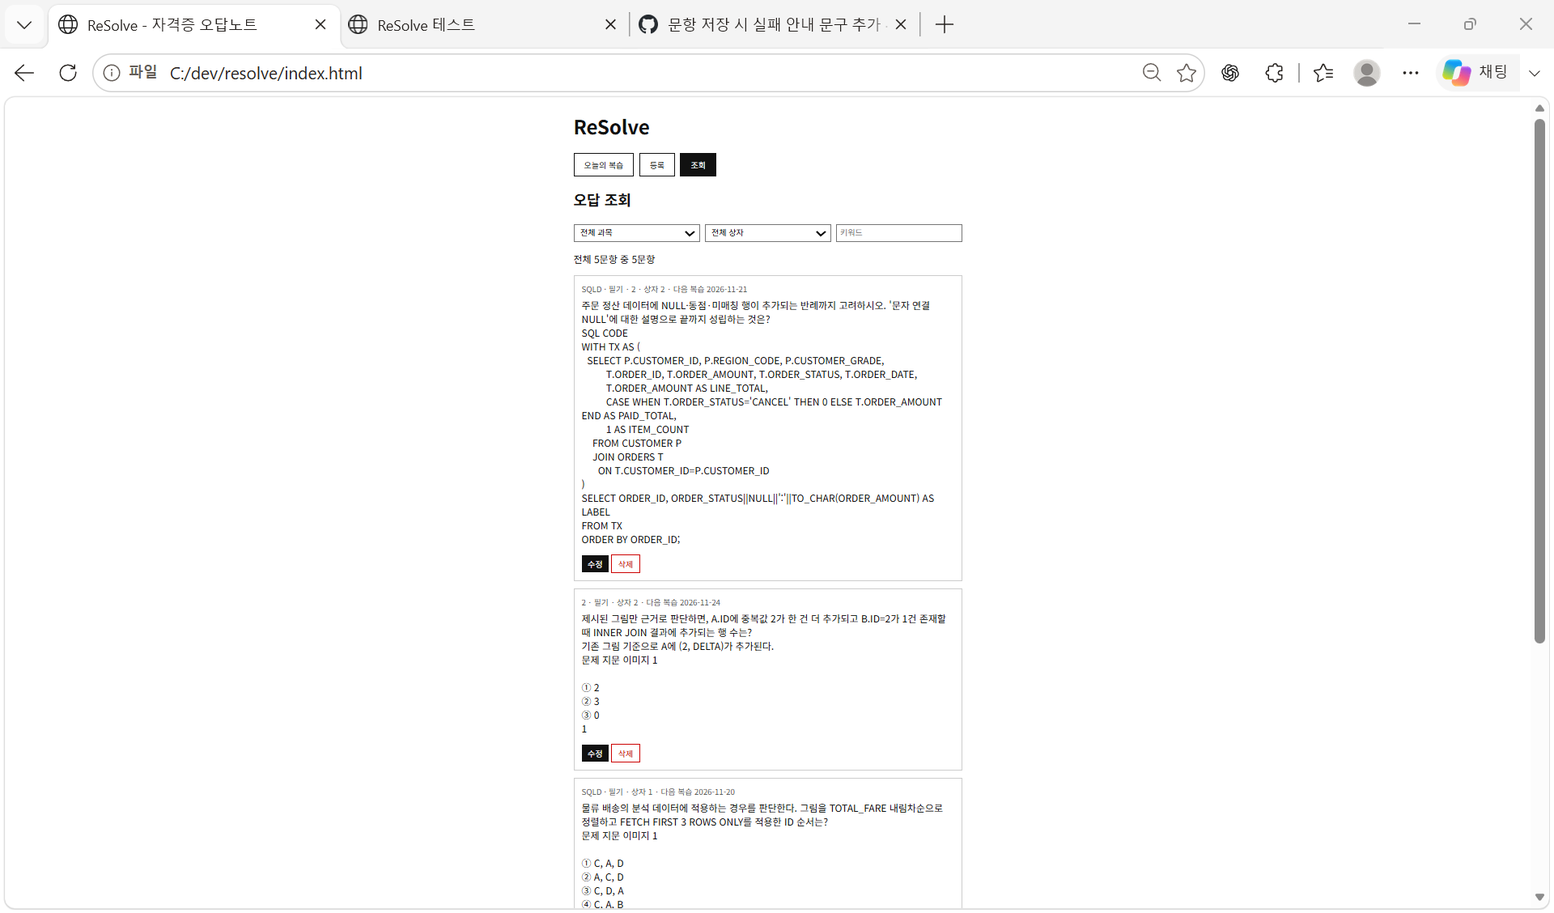
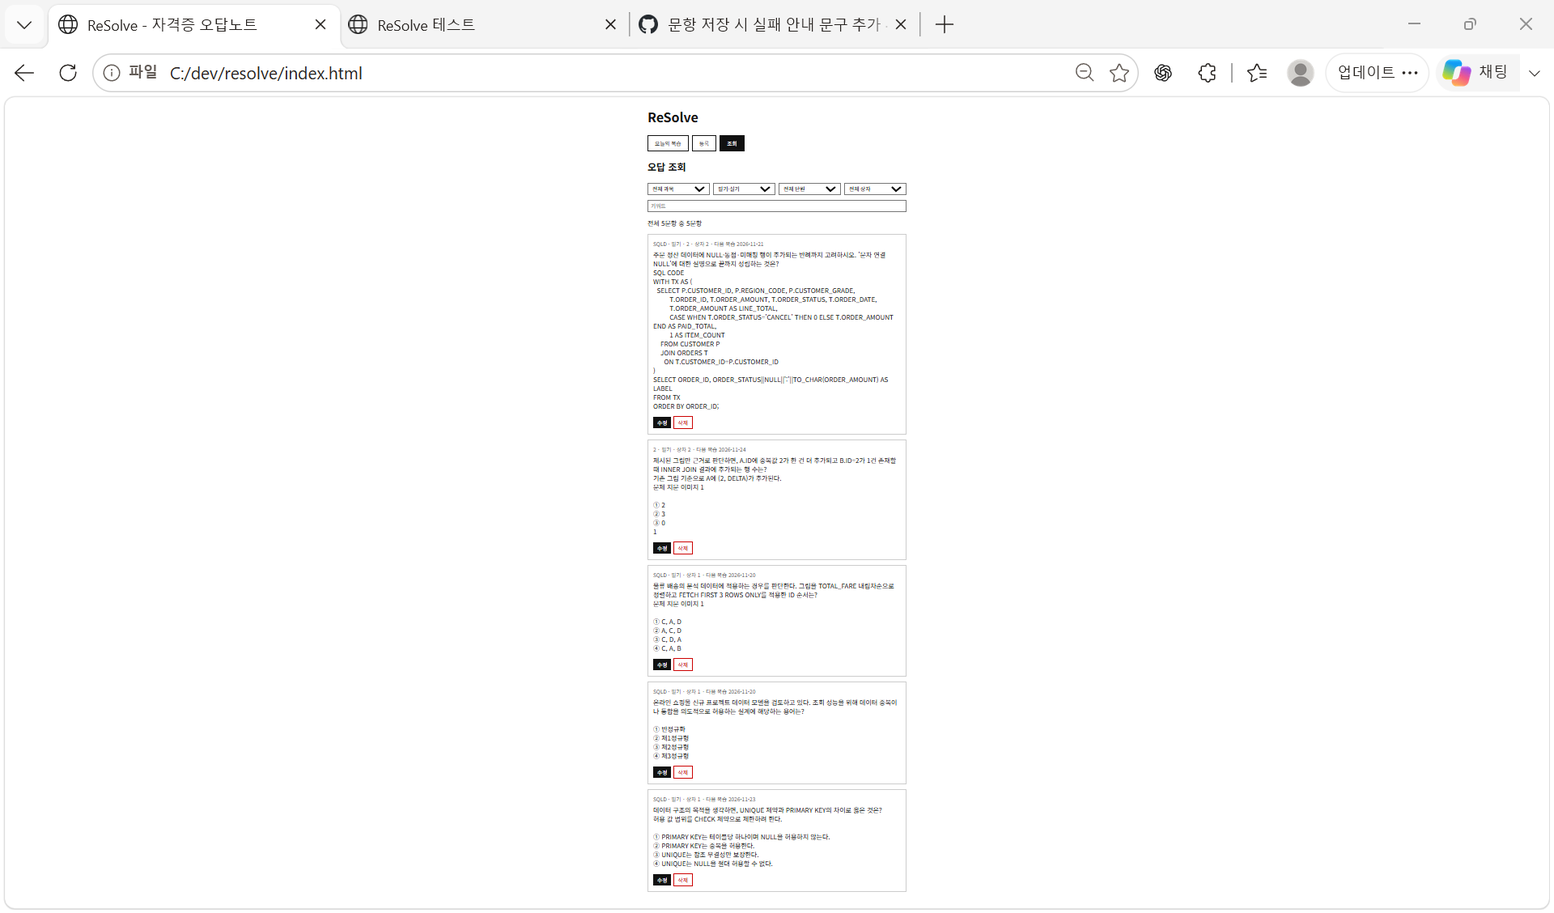
계획서대로 조회 필터와 오늘의 복습 순서 수정 (테스트 41개 → 46개)
- README를 계획서와 대조하다 MVP 2, 4번이 계획서와 다른 것을 확인해 수정
- 조회: 필기, 실기, 단원으로 골라 보기 추가, 결과가 없으면 "해당 문항 없음" 출력
- 오늘의 복습: 상자 번호가 낮은 것부터, 같으면 오래 밀린 것부터 내도록 정렬 변경
- 붙여넣기: "문제 지문 이미지 N" 줄도 그림 자리로 보고 빼도록 수정
- 테스트 5개 추가 (계획서 예시 3번 상자 10/1 → 10/9 포함, 예외 1개)
- README: MVP 2, 4 완성으로 변경, 테스트 수와 구성표 갱신

Changed region(s): [[0.375, 0.1241, 0.625, 1.0], [0.9688, 0.1241, 1.0, 0.7137], [0.6875, 0.0621, 0.9062, 0.0931]]

diff --git a/test.html b/test.html
@@ -99,6 +99,18 @@
       same(filterQuestions(poolTextFields, { subject: "", box: "", keyword: "실전 특강" }).map(q => q.id), ["tx2"]) &&
       same(filterQuestions(poolTextFields, { subject: "", box: "", keyword: "실수" }).map(q => q.id), ["tx3"]));
 
+    const poolExamUnit = [
+      sample({ id: "e1", examType: "필기", unit: "조인" }),
+      sample({ id: "e2", examType: "실기", unit: "조인" }),
+      sample({ id: "e3", examType: "실기", unit: "정규화" })
+    ];
+    check("filterQuestions: 필기·실기와 단원으로 골라 보기 (계획서 기능 2)",
+      same(filterQuestions(poolExamUnit, { subject: "", examType: "실기", unit: "", box: "", keyword: "" }).map(q => q.id), ["e2", "e3"]) &&
+      same(filterQuestions(poolExamUnit, { subject: "", examType: "실기", unit: "조인", box: "", keyword: "" }).map(q => q.id), ["e2"]) &&
+      same(filterQuestions(poolExamUnit, { subject: "", examType: "", unit: "조인", box: "", keyword: "" }).map(q => q.id), ["e1", "e2"]));
+    check("[예외] filterQuestions: 조건에 맞는 문항이 없으면 빈 배열 (화면에는 '해당 문항 없음')",
+      filterQuestions(poolExamUnit, { subject: "", examType: "필기", unit: "정규화", box: "", keyword: "" }).length === 0);
+
     /* ---------- 3. 상자 이동 (scheduler.js applyAnswer) ---------- */
     const r1 = applyAnswer(sample({ box: 1 }), true, TODAY);
     check("applyAnswer: 상자 1에서 맞으면 상자 2, 2일 뒤 복습", r1.box === 2 && r1.nextReview === "2026-11-21");
@@ -111,6 +123,10 @@
 
     const rw = applyAnswer(sample({ box: 3 }), false, TODAY);
     check("applyAnswer: 틀리면 상자 1로 돌아가 다음 날 복습", rw.box === 1 && rw.nextReview === "2026-11-20");
+
+    const rPlan = applyAnswer(sample({ box: 3 }), true, "2026-10-01");
+    check("applyAnswer: 계획서 예시 그대로, 3번 상자 문항을 10월 1일에 맞히면 4번 상자, 다음 복습일 10월 9일",
+      rPlan.box === 4 && rPlan.nextReview === "2026-10-09");
 
     const original = sample({ box: 2 });
     const after = applyAnswer(original, true, TODAY);
@@ -136,6 +152,15 @@
     const allPicked = getTodayReview(many, TODAY, many.length);
     check("getTodayReview: 제한 자리에 전체 문항 수를 넣으면 20개를 넘어도 전부 고름",
       allPicked.length === many.length && allPicked[0].id === "oldest" && allPicked[25].id === "m24");
+
+    const boxOrder = getTodayReview([
+      sample({ id: "b3old", box: 3, nextReview: "2026-11-01" }),
+      sample({ id: "b1new", box: 1, nextReview: "2026-11-19" }),
+      sample({ id: "b2", box: 2, nextReview: "2026-11-15" }),
+      sample({ id: "b1old", box: 1, nextReview: "2026-11-05" })
+    ], TODAY);
+    check("getTodayReview: 계획서대로 상자 번호가 낮은 것부터, 같은 상자면 오래 밀린 것부터",
+      same(boxOrder.map(q => q.id), ["b1old", "b1new", "b2", "b3old"]));
 
     check("[예외] getTodayReview: 문항이 하나도 없으면 빈 배열", getTodayReview([], TODAY).length === 0);
 
@@ -296,6 +321,16 @@
       p9.question === "주문 내역을 고객별로 묶어 보여 주는 설계 방식은?\n\n① 반정규화\n② 제1정규형\n③ 제2정규형\n④ 제3정규형" &&
       p9.answer === "① 반정규화" && p9.hasImage === true &&
       p9.explanation === "조회 성능을 위해 중복을 허용하는 것이 반정규화이다.");
+
+    // 11/22 실제 복사 3차: 그림 자리 글자가 "문제 지문 이미지 1"로 나오는 문제
+    const pJimun = parsePastedQuestion([
+      "그림의 두 테이블을 INNER JOIN 하면 결과 행 수는?",
+      "문제 지문 이미지 1",
+      "① 1", "② 2", "③ 3", "④ 4", "정답: ②"
+    ].join("\n"));
+    check("parsePastedQuestion: '문제 지문 이미지 1' 줄도 그림 자리로 보고 뺌",
+      pJimun.question === "그림의 두 테이블을 INNER JOIN 하면 결과 행 수는?\n\n① 1\n② 2\n③ 3\n④ 4" &&
+      pJimun.answer === "② 2" && pJimun.hasImage === true);
 
     const p10 = parsePastedQuestion(["문제 없이 정답만 표시", "정답: 3"].join("\n"));
     const p11 = parsePastedQuestion(["보기가 4개인 문제", "① A", "② B", "③ C", "④ D", "정답: 5"].join("\n"));

diff --git a/app.js b/app.js
@@ -187,21 +187,32 @@ document.getElementById("paste-fill").addEventListener("click", () => {
 const listEl = document.getElementById("question-list");
 const countEl = document.getElementById("list-count");
 const subjectSel = document.getElementById("filter-subject");
+const examSel = document.getElementById("filter-exam");
+const unitSel = document.getElementById("filter-unit");
 const boxSel = document.getElementById("filter-box");
 const keywordInput = document.getElementById("filter-keyword");
 
-/** 과목 선택 목록을 저장된 과목으로 다시 채운다. (고르던 값은 유지) */
-function refreshSubjectOptions(list) {
-  const current = subjectSel.value;
-  const subjects = [...new Set(list.map(q => q.subject))].sort();
-  subjectSel.innerHTML = '<option value="">전체 과목</option>';
-  subjects.forEach(s => {
+/**
+ * 선택 목록을 저장된 값으로 다시 채운다. (고르던 값은 유지, 빈 값은 목록에 넣지 않음)
+ * @param {HTMLSelectElement} select 채울 선택 목록
+ * @param {string[]} values 문항에서 모은 값
+ * @param {string} allLabel 맨 위 "전체" 항목 글자
+ */
+function refreshOptions(select, values, allLabel) {
+  const current = select.value;
+  const items = [...new Set(values.filter(Boolean))].sort();
+  select.innerHTML = "";
+  const all = document.createElement("option");
+  all.value = "";
+  all.textContent = allLabel;
+  select.appendChild(all);
+  items.forEach(v => {
     const opt = document.createElement("option");
-    opt.value = s;
-    opt.textContent = s;
-    subjectSel.appendChild(opt);
+    opt.value = v;
+    opt.textContent = v;
+    select.appendChild(opt);
   });
-  subjectSel.value = subjects.includes(current) ? current : "";
+  select.value = items.includes(current) ? current : "";
 }
 
 /** 문항 하나를 목록 카드로 만든다. (입력값은 textContent로만 넣어 HTML로 해석되지 않게 함) */
@@ -248,21 +259,30 @@ function makeItem(q) {
 /** 조건에 맞는 문항으로 목록을 다시 그린다. */
 function renderList() {
   const all = loadQuestions();
-  refreshSubjectOptions(all);
+  refreshOptions(subjectSel, all.map(q => q.subject), "전체 과목");
+  refreshOptions(unitSel, all.map(q => q.unit), "전체 단원");
   const shown = filterQuestions(all, {
     subject: subjectSel.value,
+    examType: examSel.value,
+    unit: unitSel.value,
     box: boxSel.value,
     keyword: keywordInput.value
   });
 
   listEl.innerHTML = "";
   shown.forEach(q => listEl.appendChild(makeItem(q)));
-  countEl.textContent = all.length === 0
-    ? "등록된 문항이 없습니다."
-    : "전체 " + all.length + "문항 중 " + shown.length + "문항";
+  if (all.length === 0) {
+    countEl.textContent = "등록된 문항이 없습니다.";
+  } else if (shown.length === 0) {
+    countEl.textContent = "해당 문항 없음 (전체 " + all.length + "문항)";
+  } else {
+    countEl.textContent = "전체 " + all.length + "문항 중 " + shown.length + "문항";
+  }
 }
 
 subjectSel.addEventListener("change", renderList);
+examSel.addEventListener("change", renderList);
+unitSel.addEventListener("change", renderList);
 boxSel.addEventListener("change", renderList);
 keywordInput.addEventListener("input", renderList);
 
@@ -323,7 +343,7 @@ function renderReview() {
     startReviewBtn.classList.add("hidden");
   } else {
     reviewCountEl.textContent = dueCount > todayCount
-      ? "복습할 문항이 " + dueCount + "개 있습니다. 오늘은 오래된 것부터 " + todayCount + "개를 풉니다."
+      ? "복습할 문항이 " + dueCount + "개 있습니다. 오늘은 상자 번호가 낮은 것부터 " + todayCount + "개를 풉니다."
       : "오늘 복습할 문항은 " + todayCount + "개입니다.";
     startReviewBtn.classList.remove("hidden");
   }

diff --git a/models.js b/models.js
@@ -54,14 +54,16 @@ function validateQuestion(input) {
 /**
  * 조회 조건에 맞는 문항만 골라낸다. 조건이 빈 값이면 그 조건은 검사하지 않는다.
  * @param {Question[]} list
- * @param {{subject: string, box: string, keyword: string}} filter
- *   box는 "1"~"5" 또는 "done"(졸업)
+ * @param {{subject: string, examType?: string, unit?: string, box: string, keyword: string}} filter
+ *   examType은 "필기"·"실기", box는 "1"~"5" 또는 "done"(졸업). examType·unit은 빼도 됨
  * @returns {Question[]}
  */
 function filterQuestions(list, filter) {
   const keyword = filter.keyword.trim().toLowerCase();
   return list.filter(q => {
     if (filter.subject && q.subject !== filter.subject) return false;
+    if (filter.examType && q.examType !== filter.examType) return false;
+    if (filter.unit && q.unit !== filter.unit) return false;
     if (filter.box === "done" && !q.done) return false;
     if (filter.box && filter.box !== "done" && (q.done || String(q.box) !== filter.box)) return false;
     if (keyword) {

diff --git a/scheduler.js b/scheduler.js
@@ -55,7 +55,7 @@ function applyAnswer(q, correct, today) {
 
 /**
  * 오늘 복습할 문항을 고른다. 졸업하지 않았고 복습일이 오늘이거나 지난 문항이 대상이다.
- * 복습일이 오래된 것부터, 같으면 등록 순서대로 최대 limit개를 돌려준다.
+ * 계획서대로 상자 번호가 낮은 것부터, 같으면 오래 밀린 것(복습일이 이른 것)부터, 그것도 같으면 등록 순서대로 최대 limit개를 돌려준다.
  * ("YYYY-MM-DD" 문자열은 글자 순서 = 날짜 순서라서 그대로 비교한다)
  * @param {Question[]} list
  * @param {string} today "YYYY-MM-DD"
@@ -65,7 +65,7 @@ function applyAnswer(q, correct, today) {
 function getTodayReview(list, today, limit = 20) {
   return list
     .filter(q => !q.done && q.nextReview <= today)
-    .sort((a, b) => (a.nextReview < b.nextReview ? -1 : a.nextReview > b.nextReview ? 1 : 0))
+    .sort((a, b) => a.box - b.box || (a.nextReview < b.nextReview ? -1 : a.nextReview > b.nextReview ? 1 : 0))
     .slice(0, limit);
 }
 

diff --git a/index.html b/index.html
@@ -14,7 +14,7 @@
     nav button { margin-top: 0; margin-right: 4px; background: #fff; color: #111; border: 1px solid #111; }
     nav button.active { background: #111; color: #fff; }
     .hidden { display: none; }
-    .filters { display: flex; gap: 8px; }
+    .filters { display: flex; flex-wrap: wrap; gap: 8px; }
     .filters select, .filters input { width: auto; flex: 1; }
     .item { border: 1px solid #ccc; padding: 12px; margin-top: 12px; }
     .item .meta { font-size: 13px; color: #555; }
@@ -131,6 +131,14 @@
     <div class="filters">
       <select id="filter-subject">
         <option value="">전체 과목</option>
+      </select>
+      <select id="filter-exam">
+        <option value="">필기·실기</option>
+        <option value="필기">필기</option>
+        <option value="실기">실기</option>
+      </select>
+      <select id="filter-unit">
+        <option value="">전체 단원</option>
       </select>
       <select id="filter-box">
         <option value="">전체 상자</option>

diff --git a/parser.js b/parser.js
@@ -24,8 +24,8 @@ const ANSWER_MARK = /^정답$/;
 
 /** 사이트의 "보기 선택 (4지선다)" 줄. 이 줄 뒤부터 보기이고, 괄호 속 숫자가 보기 개수 */
 const CHOICE_HEADER = /^보기 선택\s*\((\d)지선다\)/;
-/** 그림 자리에 복사되는 글자 (그림 속 내용은 복사되지 않음) */
-const IMAGE_LINE = /^문제\s*자료\s*이미지\s*\d*$/;
+/** 그림 자리에 복사되는 글자 ("문제 자료 이미지 1", "문제 지문 이미지 1". 그림 속 내용은 복사되지 않음) */
+const IMAGE_LINE = /^문제\s*(?:자료|지문)\s*이미지\s*\d*$/;
 /** 보기 선택 줄이 있던 자리 표시 (실제 글에는 나올 수 없는 글자) */
 const CHOICE_START = "\u0000보기시작";
 

diff --git a/README.md b/README.md
@@ -57,14 +57,14 @@ IT 자격증은 필기, 실기 모두 보통 회차별 기출문제를 반복해
    - 단원까지 채우려면 문제 위의 과목·단원 표시 줄부터 복사합니다.
 
 **오늘의 복습**
-1. 첫 화면에 오늘 복습할 문항 수가 나옵니다. 복습 날짜가 오늘이거나 지난 문항이 대상이고, 많으면 오래 밀린 것부터 최대 20개를 냅니다. 복습할 문항이 없으면 다음 복습일을 알려 줍니다.
+1. 첫 화면에 오늘 복습할 문항 수가 나옵니다. 복습 날짜가 오늘이거나 지난 문항이 대상이고, 상자 번호가 낮은 것부터, 같은 상자면 오래 밀린 것부터 최대 20개를 냅니다. 복습할 문항이 없으면 다음 복습일을 알려 줍니다.
 2. 복습 시작 → 문제를 보고 답을 떠올린 뒤 정답 보기 → 정답과 비교해 맞았어요 / 틀렸어요 중 하나를 누릅니다.
 3. 누를 때마다 바로 저장되고, 방금 문항이 몇 번 상자로 옮겨졌는지와 다음 복습일이 표시됩니다.
 4. 다 풀거나 그만하기를 누르면 푼 문항 수와 맞음·틀림 수가 나옵니다. 풀지 않은 문항은 복습일이 그대로라 다음에 다시 나옵니다.
 5. 복습 중에 다른 화면에 다녀와도 풀던 문제부터 이어서 풉니다.
 
 **문항 조회와 검색**
-1. 조회 화면에서 과목, 상자 번호(1~5번, 졸업), 키워드로 골라 봅니다. 키워드는 문제·정답·해설·단원·틀린 이유·출처에서 찾고, 영문 대소문자는 구분하지 않습니다.
+1. 조회 화면에서 과목, 필기·실기, 단원, 상자 번호(1~5번, 졸업), 키워드로 골라 봅니다. 조건은 함께 적용되고, 맞는 문항이 없으면 "해당 문항 없음"이 나옵니다. 키워드는 문제·정답·해설·단원·틀린 이유·출처에서 찾고, 영문 대소문자는 구분하지 않습니다.
 2. 수정을 누르면 등록 화면에 내용이 채워집니다. 고쳐도 상자 번호와 다음 복습일, 풀이 기록은 그대로 남습니다.
 3. 삭제를 누르면 한 번 더 물어본 뒤 지웁니다.
 
@@ -79,7 +79,7 @@ saveQuestions(loadQuestions().map(q => ({ ...q, nextReview: todayStr() })))
 ## 5. 테스트 실행 방법
 
 1. 내려받은 폴더에서 `test.html`을 더블클릭해 브라우저로 엽니다. 명령어로 열려면 Windows 명령 프롬프트에서 폴더로 이동한 뒤 `start test.html`을 입력합니다.
-2. 화면 맨 위에 "통과 41 / 전체 41 — 모두 통과"가 나오면 성공입니다. 테스트마다 통과/실패가 한 줄씩 표시됩니다.
+2. 화면 맨 위에 "통과 46 / 전체 46 — 모두 통과"가 나오면 성공입니다. 테스트마다 통과/실패가 한 줄씩 표시됩니다.
 3. 실패한 테스트는 F12 → Console에도 `Assertion failed`로 표시됩니다.
 
 참고
@@ -88,17 +88,17 @@ saveQuestions(loadQuestions().map(q => ({ ...q, nextReview: todayStr() })))
 - 깨진 저장 데이터를 일부러 넣어 보는 테스트가 있어서, Console에 빨간 오류 1줄("저장된 데이터를 읽지 못했습니다…")이 나오는 것은 정상입니다.
 - 날짜를 다루는 테스트는 오늘 날짜를 2026-11-19로 고정해 언제 실행해도 결과가 같습니다.
 
-테스트 41개 구성 (예외 상황 12개, 이름 앞에 [예외] 표시)
+테스트 46개 구성 (예외 상황 13개, 이름 앞에 [예외] 표시)
 
 | 대상 | 개수 | 확인하는 내용 |
 |---|---|---|
 | 날짜 계산 (addDays, todayStr) | 5 | 월말·연말·윤년 넘기기, 16일 간격, 로컬 날짜 |
 | 문항 만들기·입력 검사 (createQuestion, validateQuestion) | 4 | 새 문항 기본값, ID 100개 중복 없음, 필수 칸 비었을 때 |
-| 조회와 검색 (filterQuestions) | 3 | 과목·상자·키워드 함께 적용, 졸업 구분, 해설 등 다른 칸에서 찾기 |
-| 복습 날짜 계산 (applyAnswer) | 5 | 맞음·틀림·완료(졸업), 원래 문항을 바꾸지 않음 |
-| 오늘의 복습 (getTodayReview, getNextReviewDate) | 5 | 오늘·지난 것만, 최대 20개와 순서, 빈 목록, 다음 복습일 |
+| 조회와 검색 (filterQuestions) | 5 | 과목·상자·키워드 함께 적용, 필기·실기와 단원, 졸업 구분, 해설 등 다른 칸에서 찾기, 맞는 문항이 없을 때 |
+| 복습 날짜 계산 (applyAnswer) | 6 | 맞음·틀림·완료(졸업), 계획서 예시(3번 상자 10/1 → 10/9), 원래 문항을 바꾸지 않음 |
+| 오늘의 복습 (getTodayReview, getNextReviewDate) | 6 | 오늘·지난 것만, 상자 번호 낮은 순과 오래 밀린 순, 최대 20개, 빈 목록, 다음 복습일 |
 | 저장·불러오기 (storage.js) | 9 | 저장 왕복, 없는 ID, 복습 중 삭제된 문항, 깨진 데이터 보관, 저장 공간 부족 |
-| 붙여넣기 나누기 (parsePastedQuestion) | 10 | 여러 복사 형식, 정답 보기 번호가 빠진 실제 복사 글, 잡음 문구, 빈 글 |
+| 붙여넣기 나누기 (parsePastedQuestion) | 11 | 여러 복사 형식, 정답 보기 번호가 빠진 실제 복사 글, 그림 자리 글자, 잡음 문구, 빈 글 |
 
 ## 6. MVP 체크리스트
 
@@ -107,9 +107,9 @@ saveQuestions(loadQuestions().map(q => ({ ...q, nextReview: todayStr() })))
 | 번호 | 기능 | 상태 | 계획서 확인 방법과 결과 |
 |---|---|---|---|
 | 1 | 오답 문항 등록 | 완성 | 필수 칸이 비어 있으면 저장하지 않고 안내함. 브라우저를 닫았다 다시 열어도 문항이 남아 있음. 수정 후 저장하면 바로 반영되고, 삭제한 문항은 새로고침 후에도 나오지 않음. 새 문항은 1번 상자에 들어감. 필수 칸은 계획서의 5칸에서 3칸으로 바꿈(7장) |
-| 2 | 문항 조회와 검색 | 부분 완성 | 과목 목록에서 SQLD를 고르면 SQLD 문항만 나옴. 상자 번호·키워드로 골라 보기도 됨. 필기/실기와 단원으로 골라 보는 목록은 만들지 못했고(단원은 키워드로 찾을 수 있음), 결과가 없을 때는 "해당 문항 없음" 대신 "전체 N문항 중 0문항"으로 표시됨 |
-| 3 | 복습 날짜 계산 | 완성 | console.assert 테스트 10개 이상 통과(41개). 맞히면 다음 상자, 틀리면 1번 상자, 5번 상자에서 맞히면 완료. 3번 상자 → 4번 상자는 8일 뒤로, 계획서 예시(10월 1일 → 10월 9일)와 같은 규칙 |
-| 4 | 오늘의 복습 | 부분 완성 | 복습 날짜가 오늘이거나 지난 문항을 최대 20개 냄. 복습할 문항이 없으면 그렇다고 알려 줌. 퀴즈 후 문항의 상자와 다음 복습 날짜가 바뀌어 있음. 다만 내는 순서가 계획서의 "상자 번호가 낮은 것부터, 같으면 오래 밀린 것부터"가 아니라 "오래 밀린 것부터, 같으면 등록 순서"로 되어 있음 |
+| 2 | 문항 조회와 검색 | 완성 | 과목 목록에서 SQLD를 고르면 SQLD 문항만 나옴. 필기·실기, 단원, 상자 번호, 키워드로도 골라 보고 조건을 함께 적용함. 결과가 없으면 "해당 문항 없음"을 출력함 |
+| 3 | 복습 날짜 계산 | 완성 | console.assert 테스트 10개 이상 통과(46개). 맞히면 다음 상자, 틀리면 1번 상자, 5번 상자에서 맞히면 완료. 계획서 예시(3번 상자 문항을 10월 1일에 맞히면 4번 상자, 다음 복습일 10월 9일)를 그대로 테스트로 확인함 |
+| 4 | 오늘의 복습 | 완성 | 복습 날짜가 오늘이거나 지난 문항을 상자 번호가 낮은 것부터, 같으면 오래 밀린 것부터 최대 20개 냄. 정답을 본 뒤 맞았는지 입력하면 상자를 옮기고 기록을 남김. 복습할 문항이 없으면 그렇다고 알려 줌. 퀴즈 후 문항의 상자와 다음 복습 날짜가 바뀌어 있음 |
 
 추가 기능 (계획서 3장 5~7번)
 
@@ -144,7 +144,7 @@ saveQuestions(loadQuestions().map(q => ({ ...q, nextReview: todayStr() })))
 | 6주차 계획 보완 | 수정한 계획서 작성 | 이 README의 계획 변경 사항으로 대신함 | 계획을 다시 짠 시점이 구현 직전이라 따로 계획서를 만들지 않고 바뀐 점을 여기에 모음 |
 | 저장 방식 | localStorage로 시작하고 IndexedDB 전환 검토 | localStorage 유지 | 계획서에 "IndexedDB 전환이 늦어지면 localStorage를 그대로 사용"으로 정해 둔 대로 함. 1,000문항에서도 속도 문제가 없었음 |
 | 파일 구성 | stats.js(통계), storage.js(저장과 백업) | stats.js 삭제, parser.js 추가, storage.js는 저장만 | 통계와 백업을 만들지 않아 빈 파일을 지우고, 붙여넣기 기능 파일을 새로 만듦 |
-| 테스트 수 | 10개 이상 | 41개 | 코드 리뷰와 Copilot 제안을 반영하면서 예외 상황 테스트를 늘림 |
+| 테스트 수 | 10개 이상 | 46개 | 코드 리뷰와 Copilot 제안을 반영하면서 예외 상황 테스트를 늘림 |
 | 문항 번호(ID) | 등록할 때 번호를 붙여 저장 (처음에는 Date.now() 사용) | crypto.randomUUID() 사용 | 코드 리뷰에서 같은 번호가 생길 수 있다는 지적을 받고 직접 재현해 확인함 (10장 참고) |
 
 ## 8. 파일 구조
@@ -159,7 +159,7 @@ saveQuestions(loadQuestions().map(q => ({ ...q, nextReview: todayStr() })))
 | parser.js | 붙여넣은 문제 글을 단원·문제·보기·정답·해설로 나누기 (계획서에 없던 파일) |
 | storage.js | localStorage 저장·불러오기·수정·삭제, 퀴즈 결과 저장, 깨진 데이터 보관 |
 | scheduler.js | 복습 날짜 계산, 상자 이동, 오늘 복습할 문항 고르기 |
-| test.html | 테스트 41개 |
+| test.html | 테스트 46개 |
 | .gitignore | `data/` 폴더 제외 (실제 시험 문제·답을 공개 저장소에 올리지 않기 위함) |
 
 저장 코드를 storage.js 한 파일에 모아 두어, 나중에 저장 방식을 IndexedDB로 바꿔도 다른 파일은 그대로 둘 수 있습니다. 스크립트는 `models.js → parser.js → storage.js → scheduler.js → app.js` 순서로 불러옵니다. 파일을 더블클릭해 여는 방식(`file://`)에서는 `type="module"`이 동작하지 않아 일반 스크립트로 연결했습니다.
@@ -192,7 +192,6 @@ saveQuestions(loadQuestions().map(q => ({ ...q, nextReview: todayStr() })))
 
 - 데이터가 브라우저 하나에만 저장됩니다. 계획서의 JSON 백업(내보내기·불러오기)을 만들어 다른 컴퓨터로 옮기거나 브라우저 기록 삭제에 대비할 수 있게 하고 싶습니다.
 - 학습 통계, CSV로 한 번에 등록, 그래프 리포트는 만들지 못했습니다. 풀이 기록은 이미 쌓이고 있어 학습 통계부터 추가할 수 있습니다.
-- 조회에서 필기/실기와 단원으로 골라 보는 목록, 결과가 없을 때 "해당 문항 없음" 표시, 오늘의 복습을 상자 번호가 낮은 것부터 내는 순서를 계획서대로 맞춰야 합니다.
 - 붙여넣기는 글자로 복사되는 문제만 다룹니다. 그림이 있는 문제, 손으로 푼 풀이 사진은 이미지 글자 인식(OCR)이나 AI API를 붙여야 합니다.
 - 조회 화면과 퀴즈 화면의 문항 정보 줄 만드는 코드를 하나로 합치는 것, 불러온 데이터 항목 검사는 보류해 두었습니다.
 
